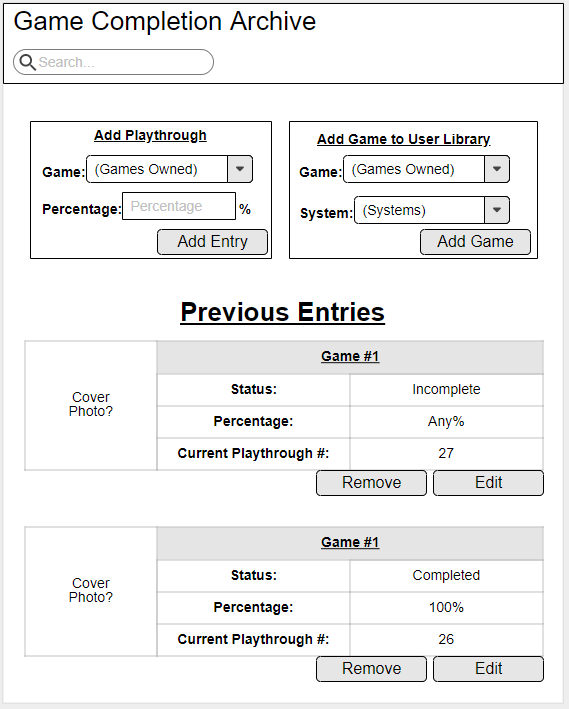
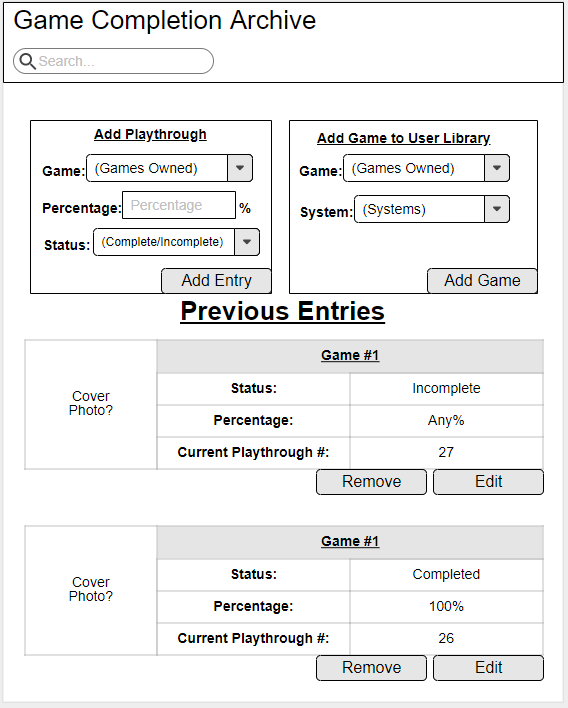
Working on checkpoint 2

diff --git a/timeLog.md b/timeLog.md
@@ -11,4 +11,4 @@
 |2/25/2020|Week 5 Exercise|~3|Also added notes on Matt's presentation|
 |3/2/2020|Code 1 Reviews|~2||
 |2/25/2020|Week 6 Exercise|~2|Also added notes on Jeanne and Katya's presentations|
-
+|2/25/2020|Indie Project|~2|Began work on how my database will look. Made an edit to how the Manage Entries page will look. Created my database and 3 tables. Added many new directories and files.|

diff --git a/designDocs/databasesPrototype.md b/designDocs/databasesPrototype.md
@@ -1,0 +1,19 @@
+# Users
+user_id
+username
+password
+email (optional)
+
+# Games
+game_id
+title
+system
+user_id (fk)
+
+# Playthroughs
+playthrough_id
+playthrough_number
+percentage
+status
+user_id (fk)
+game_id (fk)
